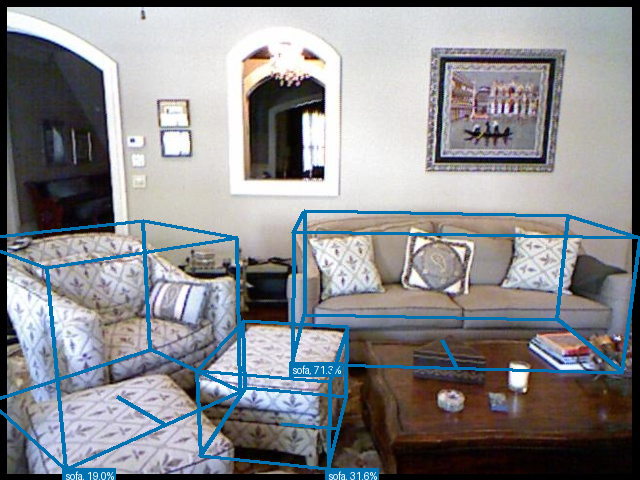
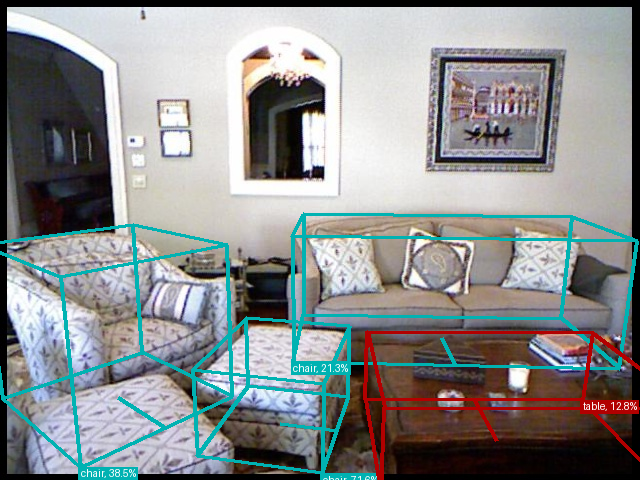
feat: Add Huggingface demo.

Changed region(s): [[0.0, 0.4375, 1.0, 1.0], [0.9688, 0.9062, 1.0, 0.9688]]

diff --git a/scripts/demo.py b/scripts/demo.py
@@ -65,7 +65,10 @@ def get_3d_mood_swin_base(
     bbox3d_head = GroundingDINO3DHead(box_coder=box_coder)
 
     roi2det3d = RoI2Det3D(
-        max_per_img=max_per_image, score_threshold=score_thres
+        nms=True,
+        class_agnostic_nms=True,
+        max_per_img=max_per_image,
+        score_threshold=score_thres,
     )
 
     return GroundingDINO3D(
@@ -82,11 +85,16 @@ if __name__ == "__main__":
     """Demo."""
     device = "cuda" if torch.cuda.is_available() else "cpu"
 
+    text_prompts = "chair.table"
+
     # Data
     images = np.array(Image.open("./assets/demo/rgb.png")).astype(np.float32)[
         None, ...
     ]
     intrinsics = np.load("./assets/demo/intrinsics.npy")
+
+    input_texts = text_prompts.split(".")
+    class_id_mapping = {i: text for i, text in enumerate(input_texts)}
 
     data_dict = {
         "images": images,
@@ -134,7 +142,7 @@ if __name__ == "__main__":
             original_hw=[data["original_hw"]],
             intrinsics=data["intrinsics"].to(device)[None],
             padding=[data["padding"]],
-            input_texts=["sofa"],
+            input_texts=[input_texts],
         )
 
     # Save the prediction for visualization
@@ -144,6 +152,7 @@ if __name__ == "__main__":
         intrinsics=data["original_intrinsics"].cpu().numpy(),
         scores=[s.cpu() for s in scores],
         class_ids=[c.cpu() for c in class_ids],
-        class_id_mapping={0: "sofa"},
+        class_id_mapping=class_id_mapping,
         file_path="./assets/demo/output.png",
+        n_colors=len(class_id_mapping),
     )

diff --git a/README.md b/README.md
@@ -3,7 +3,8 @@
 # 3D-MOOD: Lifting 2D to 3D for Monocular Open-Set Object Detection
 
 <a href="https://arxiv.org/abs/2507.23567"><img src='https://img.shields.io/badge/arXiv-Paper-red?logo=arxiv&logoColor=white' alt='arXiv'></a>
-<a href='https://royyang0714.github.io/3D-MOOD'><img src='https://img.shields.io/badge/Project_Page-Website-green?logo=googlechrome&logoColor=white' alt='Project Page'></a>
+<a href='https://royyang0714.github.io/3D-MOOD'><img src='https://img.shields.io/badge/Project%20Page-Website-green?logo=googlechrome&logoColor=white' alt='Project Page'></a>
+<a href='https://huggingface.co/spaces/RoyYang0714/3D-MOOD'><img src='https://img.shields.io/badge/%F0%9F%A4%97%20Hugging%20Face-Live%20Demo-blue'></a> \
 <a href='https://huggingface.co/RoyYang0714/3D-MOOD'><img src='https://img.shields.io/badge/%F0%9F%A4%97%20Hugging%20Face-Models-blue'></a>
 <a href='https://huggingface.co/datasets/RoyYang0714/3D-MOOD'><img src='https://img.shields.io/badge/%F0%9F%A4%97%20Hugging%20Face-Datasets-blue'></a>
 
@@ -25,7 +26,7 @@
 
 ## News and ToDo
 
-- [x] `27.08.2025`: Add `scripts/demo.py` for demo!
+- [x] `27.08.2025`: Add `scripts/demo.py` and [Huggingface Demo](https://huggingface.co/spaces/RoyYang0714/3D-MOOD)!
 - [x] `25.08.2025`: Release code and models.
 - [x] `25.06.2025`: 3D-MOOD is accepted at ICCV 2025!
 
@@ -66,6 +67,8 @@ python scripts/demo.py
 It will save the prediction as follow to `assets/demo/output.png`.
 
 ![](assets/demo/output.png)
+
+You can also try the live demo on [here](https://huggingface.co/spaces/RoyYang0714/3D-MOOD)!
 
 ### Data Preparation
 
